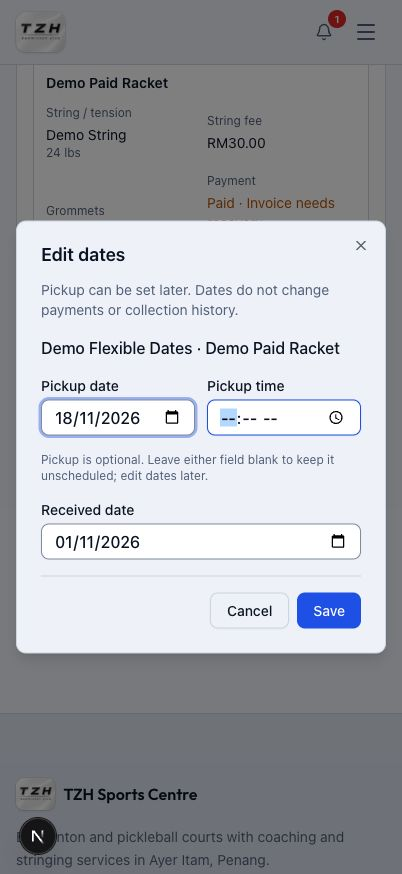
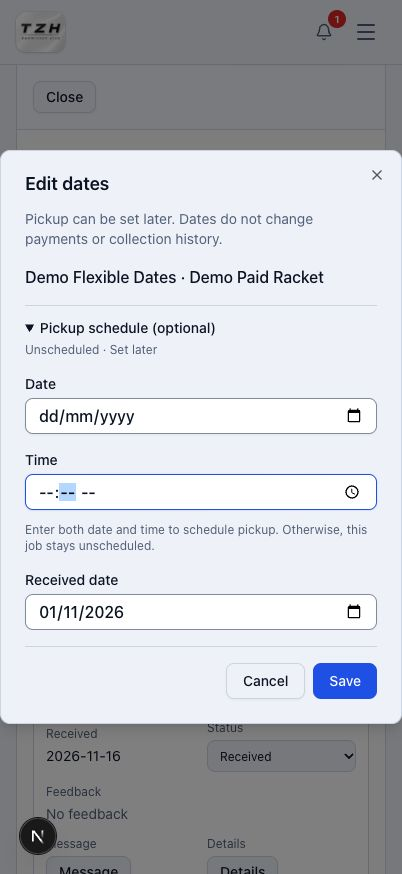
docs: guide optional stringing pickup scheduling

diff --git a/website/stringing.md b/website/stringing.md
@@ -51,11 +51,23 @@ A blank received date uses Malaysia today for a new job.
 Both fee boxes start blank with a 0.00 hint. Enter the string fee; leave
 Grommets blank for RM0.00.
 
-Add and Edit stringing fields have clear outlines in both themes.
+**Local preview — awaiting deployment:** Required fields show `*`: Customer,
+Racket name, String, Tension and String fee. **Pickup schedule (optional)** starts
+collapsed for new or unscheduled jobs. Leave it closed to save without a pickup
+schedule, or open it and enter both date and time. On narrow screens the fields stack;
+on wider screens they sit side by side with a gap.
 
-![Edit stringing fields in light theme](../images/stringing/editor-fields-light.png)
+![Add stringing with optional pickup collapsed on desktop](../images/stringing/pickup-collapsed-desktop.jpg)
 
-![Add stringing fields in dark theme](../images/stringing/editor-fields-dark.png)
+![Add stringing with optional pickup collapsed on phone](../images/stringing/pickup-collapsed-mobile.jpg)
+
+**Partial pickup timing:** Add and Edit accept only a date or only a time. Both
+save as **Unscheduled**; the lone value is not retained. Enter both fields later
+to schedule pickup.
+
+![Date selected without a pickup time on phone](../images/stringing/pickup-date-only.jpg)
+
+![Time selected without a pickup date on phone](../images/stringing/pickup-time-only.jpg)
 
 Extra instructions go in **Notes**. Repeat for each racket the customer brings;
 identical names can have separate jobs. No separate racket setup is needed.
@@ -81,6 +93,17 @@ separate columns. Use **View feedback** on the customer header to read all their
 responses, with racket details and service dates. Use **Message** on a row to prepare a message
 for that job; opening the composer does not send it. Open **Details** for that specific job; **Edit stringing**
 can correct its racket name while it is unpaid and open.
+**Local preview — awaiting deployment:** **Edit stringing** opens the pickup
+section automatically when a schedule is saved. Closing the section keeps its
+values, including when you Save. Clearing either field removes the schedule.
+
+![Edit an existing pickup schedule on tablet](../images/stringing/pickup-expanded-tablet.jpg)
+
+On a phone held sideways, scroll inside the form to reach pickup. Save stays
+visible at the bottom.
+
+![Pickup fields in a phone landscape layout](../images/stringing/pickup-phone-landscape.jpg)
+
 **Set or change timing later:** open **Details → … → Edit dates**, enter the
 pickup date and time, then **Save**. This remains available after payment or
 collection and does not change payment or collection history. Clear either pickup

diff --git a/changelog/2026-11-16.md b/changelog/2026-11-16.md
@@ -1,3 +1,5 @@
 # 16–22 November 2026
 
 - [Save stringing jobs without choosing pickup timing, then edit dates later](../website/stringing.md), including paid or collected jobs. Blank received dates use today for new/received jobs and preserve the recorded date on edits.
+
+- [Add or edit stringing with optional pickup timing collapsed](../website/stringing.md), required-field `*` labels and separated phone/tablet date-time inputs. Saved schedules open automatically. Local preview; awaiting deployment.
